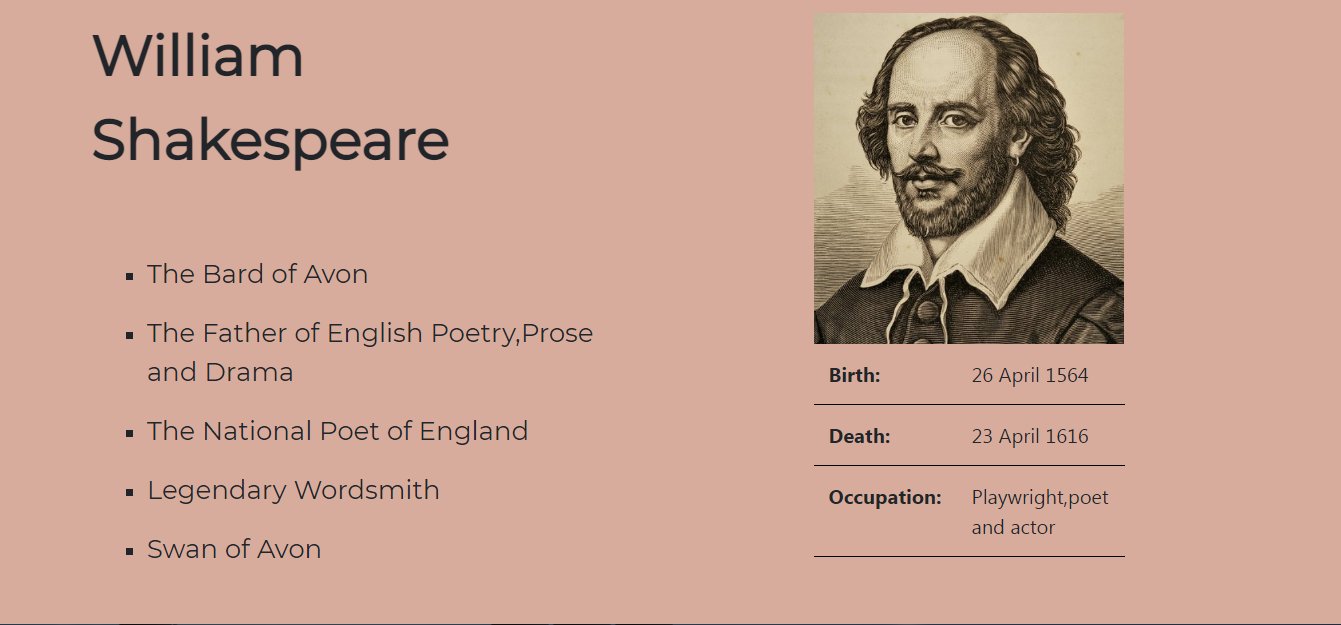
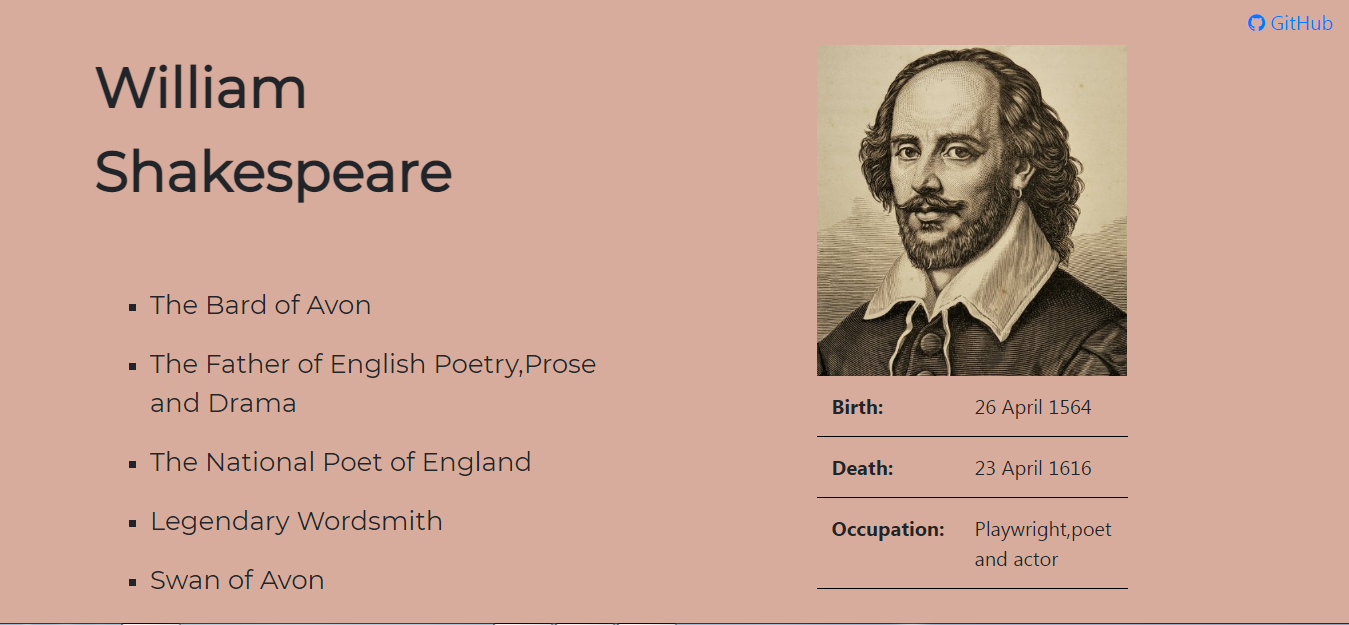
updated css and read me

diff --git a/css/style.css b/css/style.css
@@ -42,7 +42,7 @@ p {
 /* title section */
 #title {
   background-color: #d8ac9c;
-  padding:7%;
+  padding:0 7% 0;
   clear:both;
 
 }
